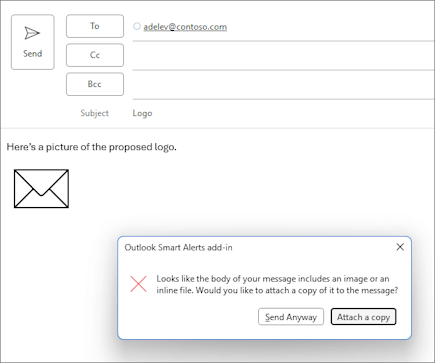
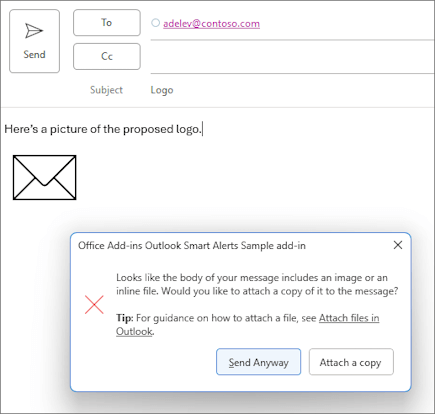
[Outlook] (Smart Alerts) Document Markdown support (#4417)
* Document Markdown support

* Add build number

* Update ms.date

* Apply suggestions from code review

* Add support for numbered lists and update screenshots

* Update ms.date and apply feedback from review

* Remove redundant link and move section

* Update link

---------

diff --git a/docs/outlook/onmessagesend-onappointmentsend-events.md b/docs/outlook/onmessagesend-onappointmentsend-events.md
@@ -1,7 +1,7 @@
 ---
 title: Handle OnMessageSend and OnAppointmentSend events in your Outlook add-in with Smart Alerts
 description: Learn about the Smart Alerts implementation and how it handles the OnMessageSend and OnAppointmentSend events in your event-based Outlook add-in.
-ms.date: 05/20/2024
+ms.date: 06/25/2024
 ms.topic: concept-article
 ms.localizationpriority: medium
 ---
@@ -27,6 +27,10 @@ The following table lists supported client-server combinations for the Smart Ale
 |**Mac**<br>Version 16.65.827.0 or later|Yes|Not applicable|Not applicable|
 |**Android**|Not applicable|Not applicable|Not applicable|
 |**iOS**|Not applicable|Not applicable|Not applicable|
+
+## Try out Smart Alerts in an event-based add-in
+
+To see Smart Alerts in action, try out the [walkthrough](smart-alerts-onmessagesend-walkthrough.md). You'll create an add-in that checks whether a document or picture is attached to a message before it's sent.
 
 ## Smart Alerts feature behavior and scenarios
 
@@ -221,7 +225,7 @@ In addition to these constraints, only one instance each of the `OnMessageSend` 
 While you can change the Smart Alerts dialog message and **Don't Send** button to suit your add-in scenario, the following can't be customized.
 
 - The dialog's title bar. Your add-in's name is always displayed there.
-- The message's format. For example, you can't change the text's font size and color or insert a bulleted list.
+- The font or color of the dialog message. However, you can use Markdown to format certain elements of your message. For a list of supported elements, see [Limitations to formatting the dialog message using Markdown](#limitations-to-formatting-the-dialog-message-using-markdown).
 - The icon next to the dialog message.
 - Dialogs that provide information on event processing and progress. For example, the text and options that appear in the timeout and long-running operation dialogs can't be changed.
 
@@ -234,6 +238,78 @@ In Outlook on the web and in new Outlook on Windows (preview):
 
 - The `OnAppointmentSend` event only occurs when the meeting being sent was created through the **New Event** option. If the meeting being sent was created by selecting a date and time directly from the calendar, the `OnAppointmentSend` event doesn't occur.
 - When forwarding a meeting, the `OnAppointmentSend` event only occurs if the organizer forwards the meeting. It doesn't occur if an attendee forwards the meeting to which they're invited.
+
+### Limitations to formatting the dialog message using Markdown
+
+> [!NOTE]
+> Support for Markdown in a Smart Alerts dialog is currently in preview in Outlook on Windows only. Features in preview shouldn't be used in production add-ins. We invite you to try out this feature in test or development environments and welcome feedback on your experience through GitHub (see the Feedback section at the end of this page).
+>
+> To test this feature in Outlook on Windows, you must install Version 2403 (Build 17330.10000) or later. Then, join the [Microsoft 365 Insider program](https://insider.microsoft365.com/join/windows) and select the **Beta Channel** option in your Outlook client to access Office beta builds.
+
+You can use Markdown to format the message of a Smart Alerts dialog. However, only the following elements are supported.
+
+- Bold, italic, or bold and italic text. Both the [asterisk (*) and underscore (_) formats](https://www.markdownguide.org/basic-syntax/#emphasis) are supported.
+
+    ```javascript
+    event.completed({
+      allowEvent: false,
+      ...
+      errorMessageMarkdown: "**Important**: Apply the appropriate sensitivity label to your message before sending."
+    });
+    ```
+
+    :::image type="content" source="../images/outlook-smart-alerts-bold.png" alt-text="A sample Smart Alerts dialog with bold text.":::
+
+- Bulleted or unordered lists. To create an item in the list, begin with a dash (`-`) or asterisk (`*`), add the content, then append `\r` to signify item completion.
+
+    ```javascript
+    event.completed({
+      allowEvent: false,
+      ...
+      errorMessageMarkdown: "Your email doesn't meet company guidelines.\n\nFor additional assistance, contact the IT Service Desk:\n\n- Phone number: 425-555-0102\r- Email: it@contoso.com\r- Website: [Contoso IT Service Desk](https://www.contoso.com/it-service-desk)\r"
+    });
+    ```
+
+    :::image type="content" source="../images/outlook-smart-alerts-list.png" alt-text="A sample Smart Alerts dialog containing a bulleted list.":::
+
+- Numbered or ordered lists. To create an item in the list, begin with a number followed by a period, add the content, then append `\r` to signify item completion. The first item of the list must start with the number one (`1.`) and the succeeding numbers must be in numerical order.
+
+    ```javascript
+    event.completed({
+      allowEvent: false,
+      ...
+      errorMessageMarkdown: "Help your recipients know your intentions when you send a mail item. To set the sensitivity level of an item:\n\n1. Select **File** > **Properties**.\r2. From the **Sensitivity** dropdown, select **Normal**, **Personal**, **Private**, or **Confidential**.\r3. Select **Close**.\r"
+    });
+    ```
+
+    :::image type="content" source="../images/outlook-smart-alerts-numbered-list.png" alt-text="A sample Smart Alerts dialog containing a numbered list.":::
+
+- Links. To create a link, enclose your link text in square brackets (`[]`), then enclose the HTTPS URL in parentheses (`()`). You must provide an HTTPS URL, otherwise it won't render as a link that a user can select from the dialog. The angle brackets format (`<>`) isn't supported.
+
+    ```javascript
+    event.completed({
+      allowEvent: false,
+      ...
+      errorMessageMarkdown: "Need onsite assistance on the day of your meeting? Visit the [Contoso Facilities](https://www.contoso.com/facilities/meetings) page to learn more."
+    });
+    ```
+
+    :::image type="content" source="../images/outlook-smart-alerts-link.png" alt-text="A sample Smart Alerts dialog containing a link.":::
+
+- New lines. Use `\n\n` to create a new line.
+
+    ```javascript
+    event.completed({
+      allowEvent: false,
+      ...
+      errorMessageMarkdown: "Add a personalized user avatar to your signature today!\n\nTo customize your signature, visit [Customize my email signature](https://www.fabrikam.com/marketing/customize-email-signature)."
+    });
+    ```
+
+    :::image type="content" source="../images/outlook-smart-alerts-new-line.png" alt-text="A sample Smart Alerts dialog containing a new line in the message.":::
+
+> [!TIP]
+> To escape characters in your message, such as an asterisk, add a backslash (`\`) before the character.
 
 ## Best practices
 
@@ -269,13 +345,8 @@ While Smart Alerts and the [on-send feature](outlook-on-send-addins.md) provide 
 |**Add-in deployment**|Add-in can be published to AppSource if its send mode property is set to the **soft block** or **prompt user** option. Otherwise, the add-in must be deployed by an organization's administrator.|Add-in can't be published to AppSource. It must be deployed by an organization's administrator.|
 |**Additional configuration for add-in installation**|No additional configuration is needed once the manifest is uploaded to the Microsoft 365 admin center.|Depending on the organization's compliance standards and the Outlook client used, certain mailbox policies must be configured to install the add-in.|
 
-## Try out Smart Alerts in an event-based add-in
-
-Ready to implement Smart Alerts in an event-based add-in? Try out the [walkthrough](smart-alerts-onmessagesend-walkthrough.md) where you'll create an add-in that checks whether a document or picture is attached to a message before it's sent.
-
 ## See also
 
-- [Handle OnMessageSend and OnAppointmentSend events in your Outlook add-in with Smart Alerts](onmessagesend-onappointmentsend-events.md)
 - [Configure your Outlook add-in for event-based activation](autolaunch.md)
 - [AppSource listing options for your event-based Outlook add-in](autolaunch-store-options.md)
 - [Office Add-ins code sample: Office Add-ins code sample: Verify the color categories of a message or appointment before it's sent using Smart Alerts](https://github.com/OfficeDev/Office-Add-in-samples/tree/main/Samples/outlook-check-item-categories)

diff --git a/docs/outlook/smart-alerts-onmessagesend-walkthrough.md b/docs/outlook/smart-alerts-onmessagesend-walkthrough.md
@@ -1,7 +1,7 @@
 ---
 title: Automatically check for an attachment before a message is sent
 description: Learn how to implement an event-based add-in that implements Smart Alerts to automatically check a message for an attachment before it's sent.
-ms.date: 05/20/2024
+ms.date: 06/25/2024
 ms.topic: how-to
 ms.localizationpriority: medium
 ---
@@ -223,7 +223,7 @@ To configure the manifest, select the tab for the type of manifest you are using
 
 You have to implement handling for your selected event.
 
-In this scenario, you'll add handling for sending a message. Your add-in will check for certain keywords in the message. If any of those keywords are found, it will then check if there are any attachments. If there are no attachments, your add-in will recommend to the user to add the possibly missing attachment.
+In this scenario, you'll add handling for sending a message. Your add-in will check for certain keywords in the message. If any of those keywords are found, it will then check for any attachments. If there are no attachments, your add-in will recommend to the user to add the possibly missing attachment.
 
 1. From the same quick start project, create a new folder named **launchevent** under the **./src** directory.
 
@@ -296,12 +296,29 @@ In this scenario, you'll add handling for sending a message. Your add-in will ch
 
         event.completed({
           allowEvent: false,
-          errorMessage: "Looks like the body of your message includes an image or an inline file. Attach a copy to the message before sending."
+          errorMessage: `
+            Looks like the body of your message includes an image or an inline file.
+            Attach a copy to the message before sending.`,
+          // TIP: In addition to the formatted message, it's recommended to also set a
+          // plain text message in the errorMessage property for compatibility on
+          // older versions of Outlook clients.
+          errorMessageMarkdown: `
+            Looks like the body of your message includes an image or an inline file.
+            Attach a copy to the message before sending.\n\n
+            **Tip**: For guidance on how to attach a file, see
+            [Attach files in Outlook](https://www.contoso.com/help/attach-files-in-outlook).`
         });
       } else {
         event.completed({
           allowEvent: false,
-          errorMessage: "Looks like you're forgetting to include an attachment."
+          errorMessage: "Looks like you're forgetting to include an attachment.",
+          // TIP: In addition to the formatted message, it's recommended to also set a
+          // plain text message in the errorMessage property for compatibility on
+          // older versions of Outlook clients.
+          errorMessageMarkdown: `
+            Looks like you're forgetting to include an attachment.\n\n
+            **Tip**: For guidance on how to attach a file, see
+            [Attach files in Outlook](https://www.contoso.com/help/attach-files-in-outlook).`
         });
       }
     }
@@ -355,7 +372,17 @@ To modify the text of the **Don't Send** button or assign it a task pane command
 
         event.completed({
           allowEvent: false,
-          errorMessage: "Looks like the body of your message includes an image or an inline file. Attach a copy to the message before sending.",
+          errorMessage: `
+            Looks like the body of your message includes an image or an inline file.
+            Attach a copy to the message before sending.`,
+          // TIP: In addition to the formatted message, it's recommended to also set a
+          // plain text message in the errorMessage property for compatibility on
+          // older versions of Outlook clients.
+          errorMessageMarkdown: `
+            Looks like the body of your message includes an image or an inline file.
+            Attach a copy to the message before sending.\n\n
+            **Tip**: For guidance on how to attach a file, see
+            [Attach files in Outlook](https://www.contoso.com/help/attach-files-in-outlook).`,
           cancelLabel: "Add an attachment",
           commandId: "msgComposeOpenPaneButton"
         });
@@ -363,6 +390,13 @@ To modify the text of the **Don't Send** button or assign it a task pane command
         event.completed({
           allowEvent: false,
           errorMessage: "Looks like you're forgetting to include an attachment.",
+          // TIP: In addition to the formatted message, it's recommended to also set a
+          // plain text message in the errorMessage property for compatibility on
+          // older versions of Outlook clients.
+          errorMessageMarkdown: `
+            Looks like you're forgetting to include an attachment.\n\n
+            **Tip**: For guidance on how to attach a file, see
+            [Attach files in Outlook](https://www.contoso.com/help/attach-files-in-outlook).`,
           cancelLabel: "Add an attachment",
           commandId: "msgComposeOpenPaneButton"
         });
@@ -398,7 +432,17 @@ To override the send mode option at runtime, you must set the [sendModeOverride]
 
         event.completed({
           allowEvent: false,
-          errorMessage: "Looks like the body of your message includes an image or an inline file. Would you like to attach a copy of it to the message?",
+          errorMessage: `
+            Looks like the body of your message includes an image or an inline file.
+            Would you like to attach a copy of it to the message?`,
+          // TIP: In addition to the formatted message, it's recommended to also set a
+          // plain text message in the errorMessage property for compatibility on
+          // older versions of Outlook clients.
+          errorMessageMarkdown: `
+            Looks like the body of your message includes an image or an inline file.
+            Would you like to attach a copy of it to the message?\n\n
+            **Tip**: For guidance on how to attach a file, see
+            [Attach files in Outlook](https://www.contoso.com/help/attach-files-in-outlook).`,
           cancelLabel: "Attach a copy",
           commandId: "msgComposeOpenPaneButton",
           sendModeOverride: Office.MailboxEnums.SendModeOverride.PromptUser
@@ -407,6 +451,13 @@ To override the send mode option at runtime, you must set the [sendModeOverride]
         event.completed({
           allowEvent: false,
           errorMessage: "Looks like you're forgetting to include an attachment.",
+          // TIP: In addition to the formatted message, it's recommended to also set a
+          // plain text message in the errorMessage property for compatibility on
+          // older versions of Outlook clients.
+          errorMessageMarkdown: `
+            Looks like you're forgetting to include an attachment.\n\n
+            **Tip**: For guidance on how to attach a file, see
+            [Attach files in Outlook](https://www.contoso.com/help/attach-files-in-outlook).`,
           cancelLabel: "Add an attachment",
           commandId: "msgComposeOpenPaneButton"
         });
